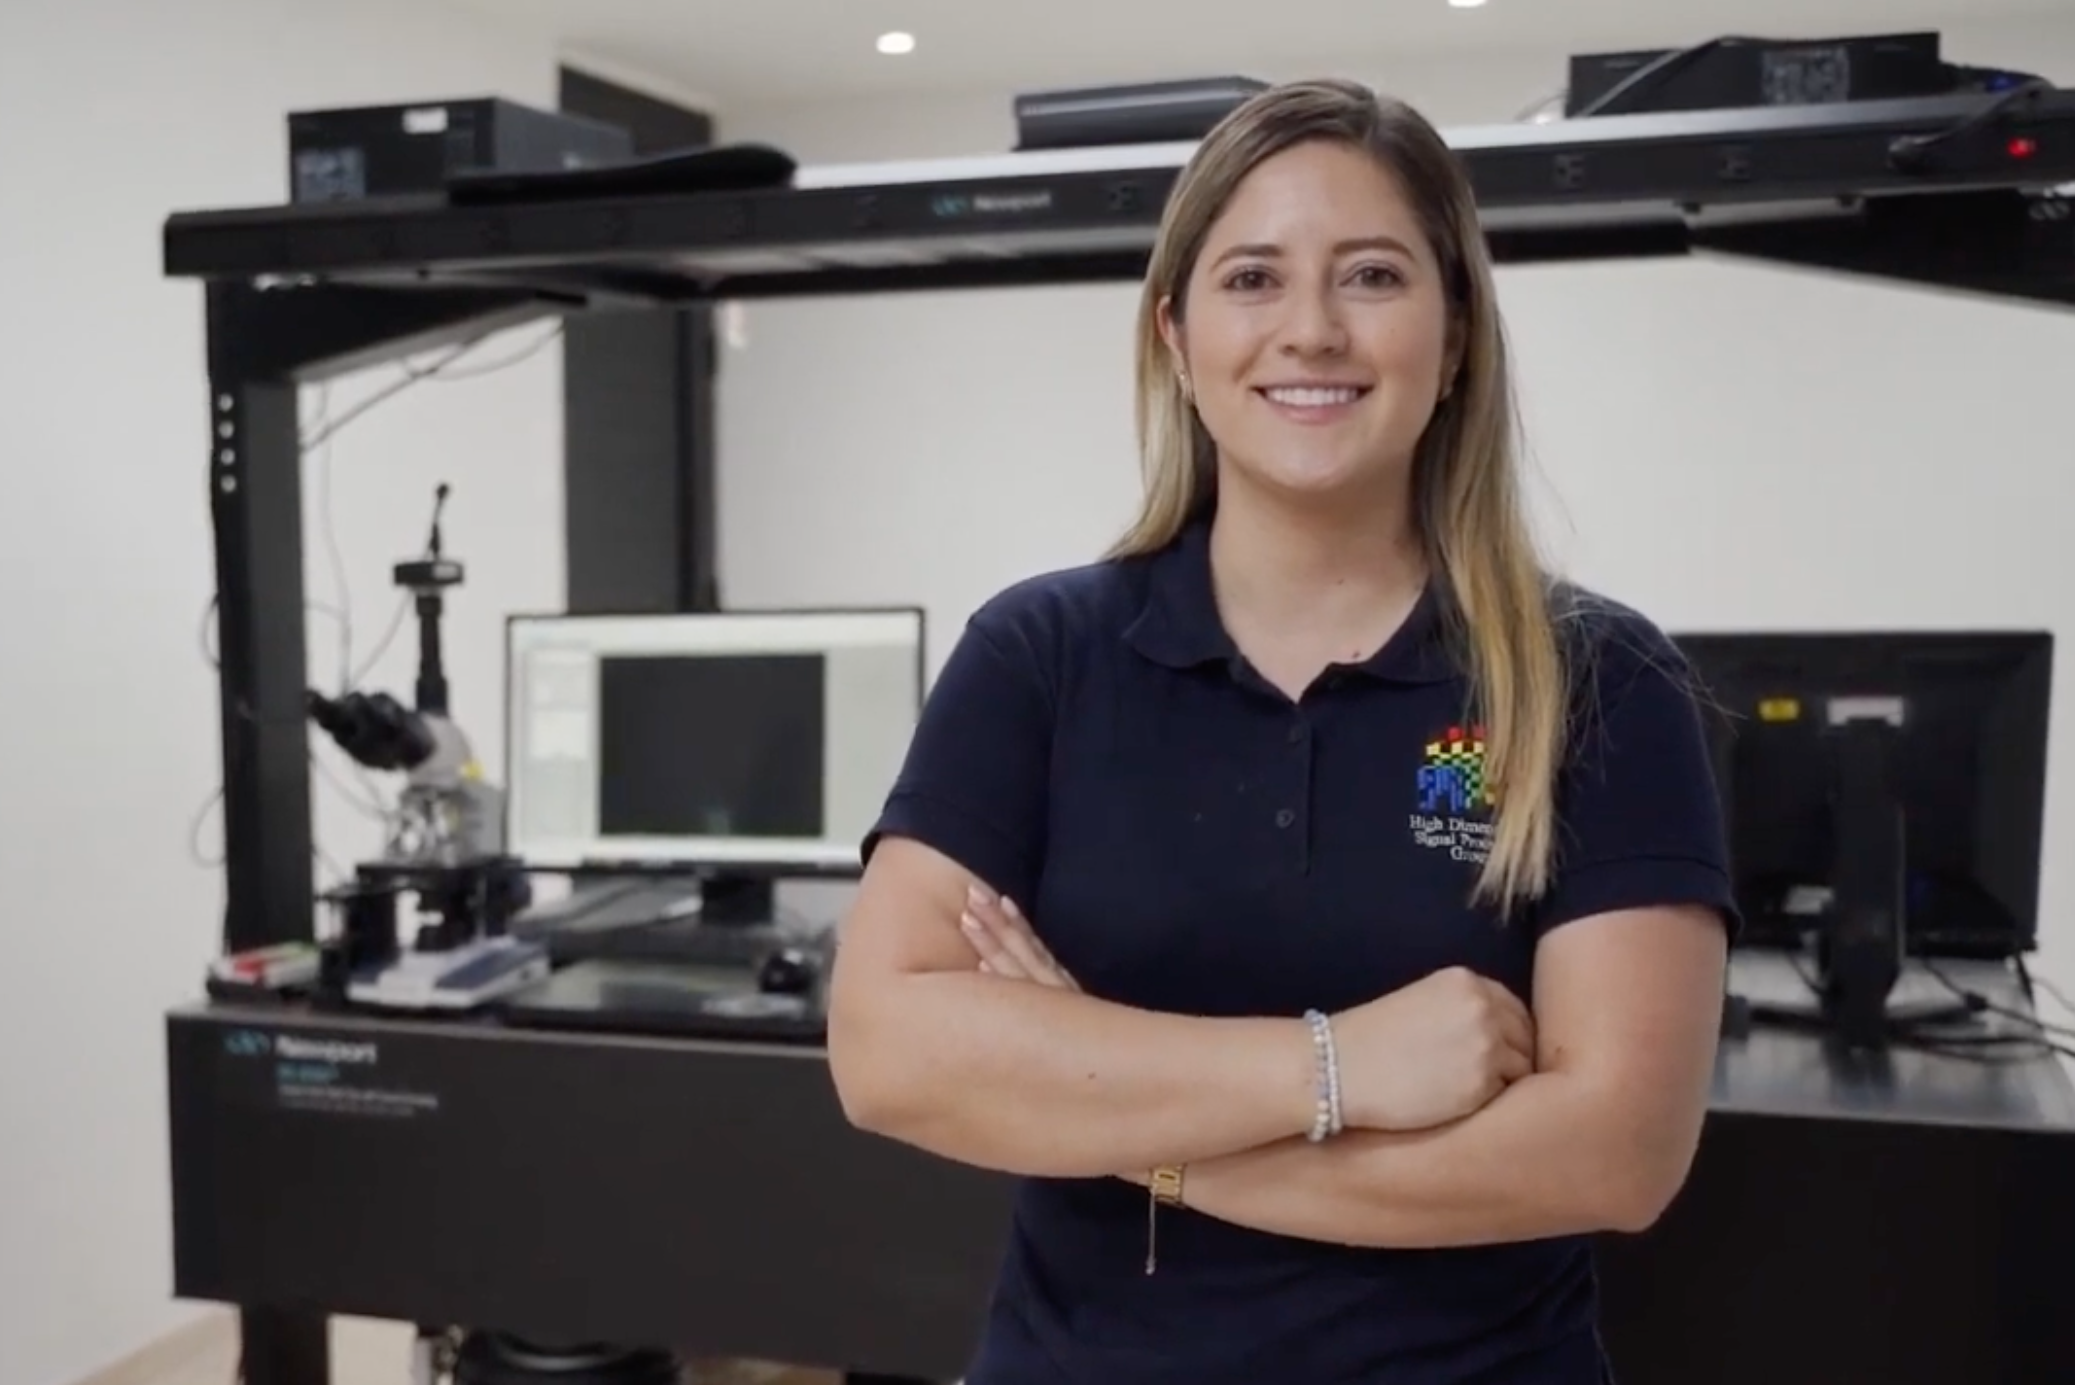
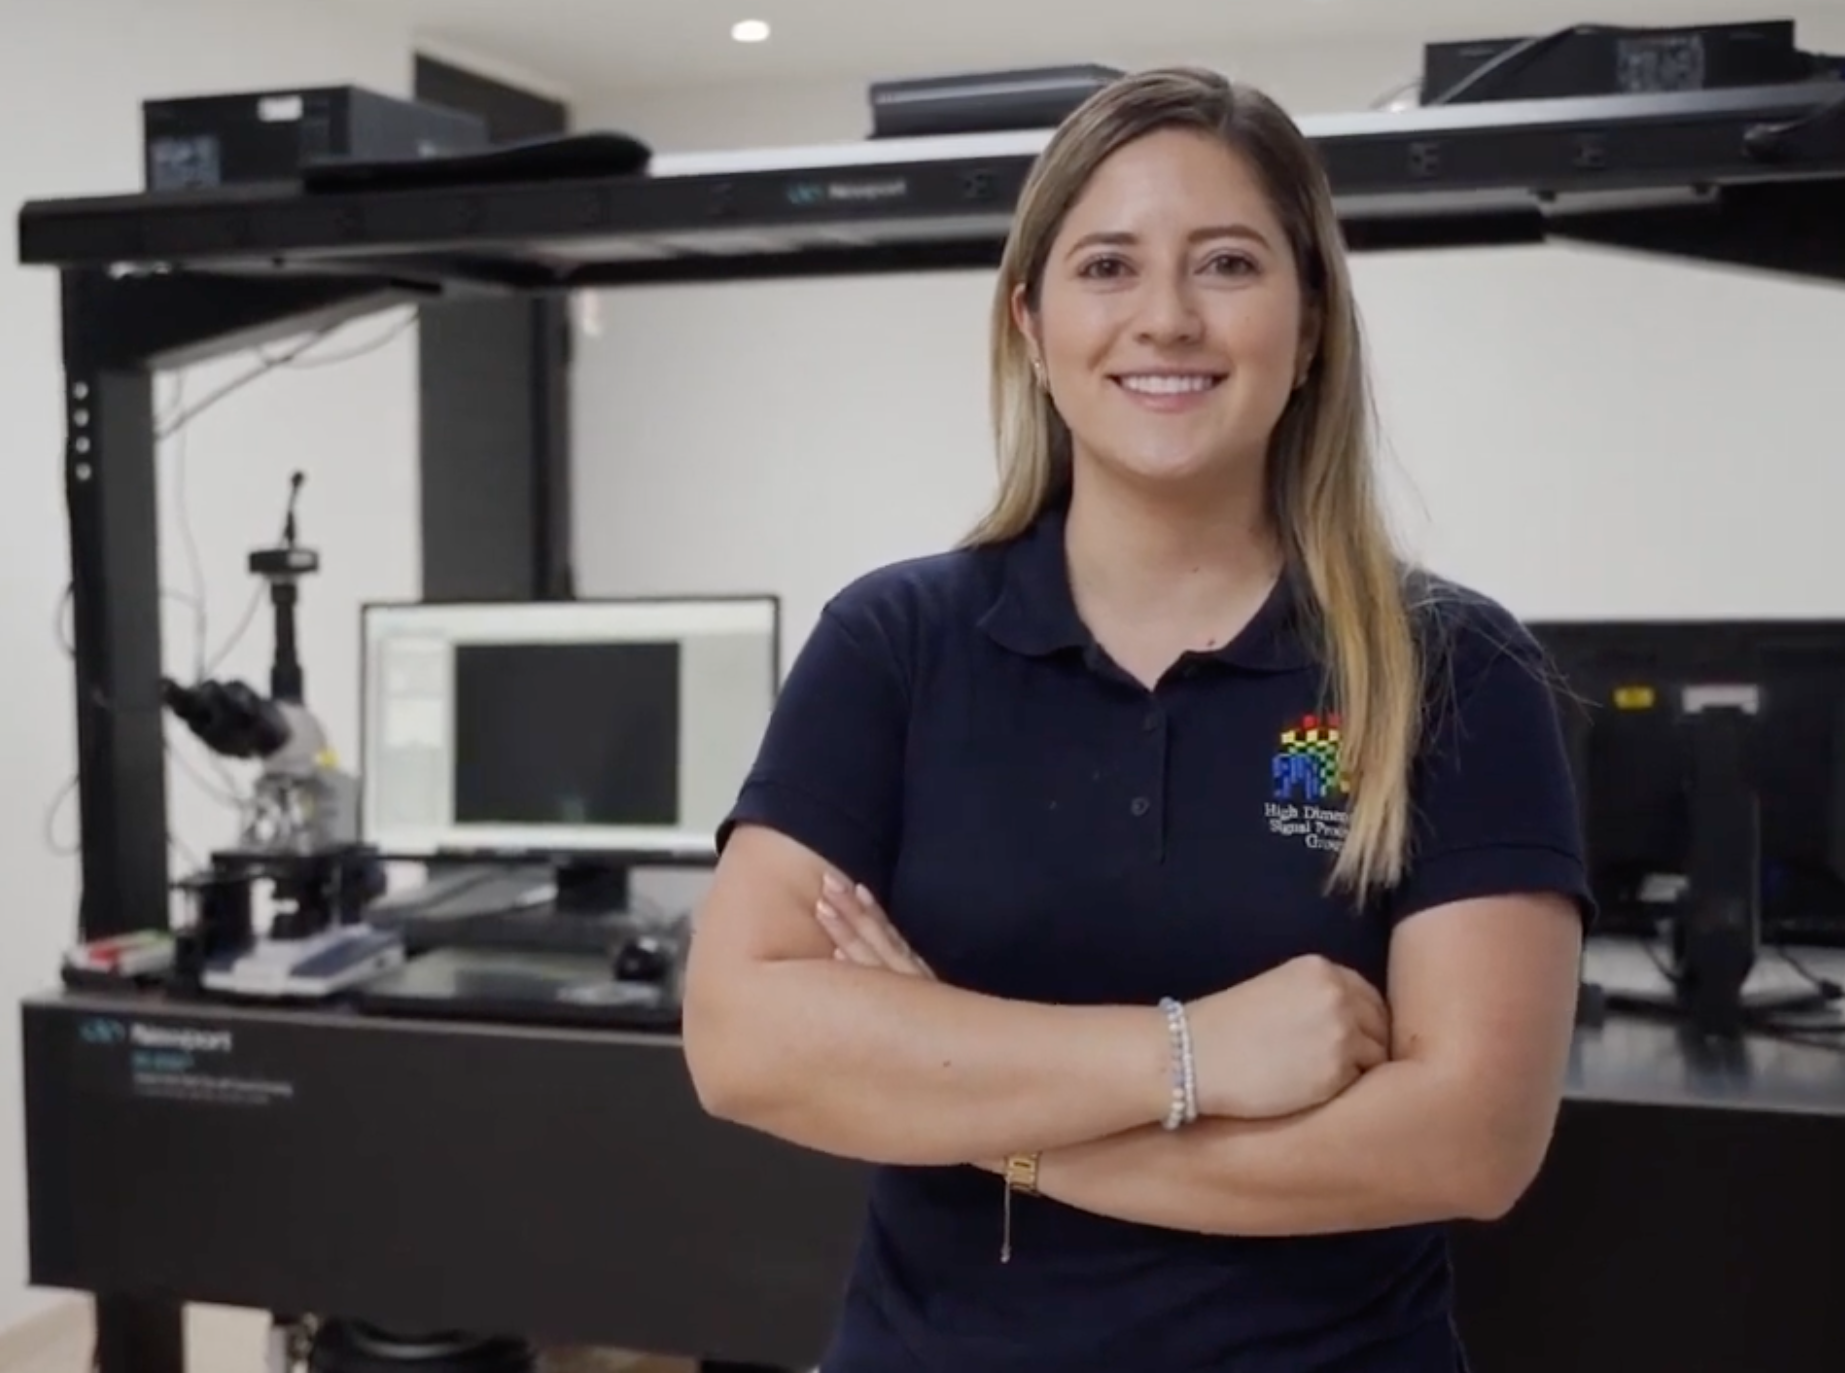
photo thesis

diff --git a/themes/hugo-initio/hugo-initio/layouts/partials/footer/footer.html b/themes/hugo-initio/hugo-initio/layouts/partials/footer/footer.html
@@ -1,4 +1,4 @@
-<footer id="footer">
+<footer id="footer" style="background:blue;">
 	<div class="container">
 		<div class="row">
 			{{ if .Site.Params.showFooterContact }}
@@ -16,7 +16,7 @@
 
 			{{ if .Site.Params.showFooterFollowMe }}
 			<div class="col-md-3 widget">
-				<h3 class="widget-title">{{ i18n "footer_followme_title" }}</h3>
+				<h3 class="widget-title">Location</h3>
 				<div class="widget-body">
 					<p class="follow-me-icons">
             {{ range .Site.Params.social }}
@@ -34,10 +34,8 @@
 				<h3 class="widget-title">{{ i18n "footer_text_title" }}</h3>
 				<div class="widget-body">
 					<p>
-						{{ i18n "footer_text1" . | markdownify }}
-					</p>
-					<p>
-						{{ i18n "footer_text2" . | markdownify }}
+    				King Abdullah University of Science and Technology (KAUST)<br>
+    				Thuwal, Saudi Arabia
 					</p>
 				</div>
 			</div>
@@ -45,14 +43,14 @@
 
 			{{ if .Site.Params.showFooterFormWidget }}
 			<div class="col-md-3 widget">
-				<h3 class="widget-title">{{ i18n "footer_form_title" }}</h3>
-				<div class="widget-body">
-					<p>{{ if .Site.Params.phone }}{{ .Site.Params.phone }}<br>{{ end }}
-					{{ if .Site.Params.email }}<a href="mailto:{{ .Site.Params.email }}">{{ .Site.Params.email }}</a><br>{{ end }}
-					<br>
-					{{ if .Site.Params.address }}{{ .Site.Params.address }}{{ end }}
-					</p>
-				</div>
+				<h3 class="widget-title">Research Interests</h3>
+				<ul class="list-unstyled">
+    				<li>AI for Science</li>
+    				<li>Computer Vision</li>
+    				<li>Medical AI</li>
+    				<li>Video Understanding</li>
+    				<li>Privacy-Preserving AI</li>
+				</ul>
 			</div>
 			{{ end }}
 
@@ -87,8 +85,6 @@
 		</div> <!-- /row of widgets -->
 	</div>
 </footer>
-
-
 
 <!-- JavaScript libs are placed at the end of the document so the pages load faster -->
 <script src="https://code.jquery.com/jquery-1.12.4.min.js"></script>
